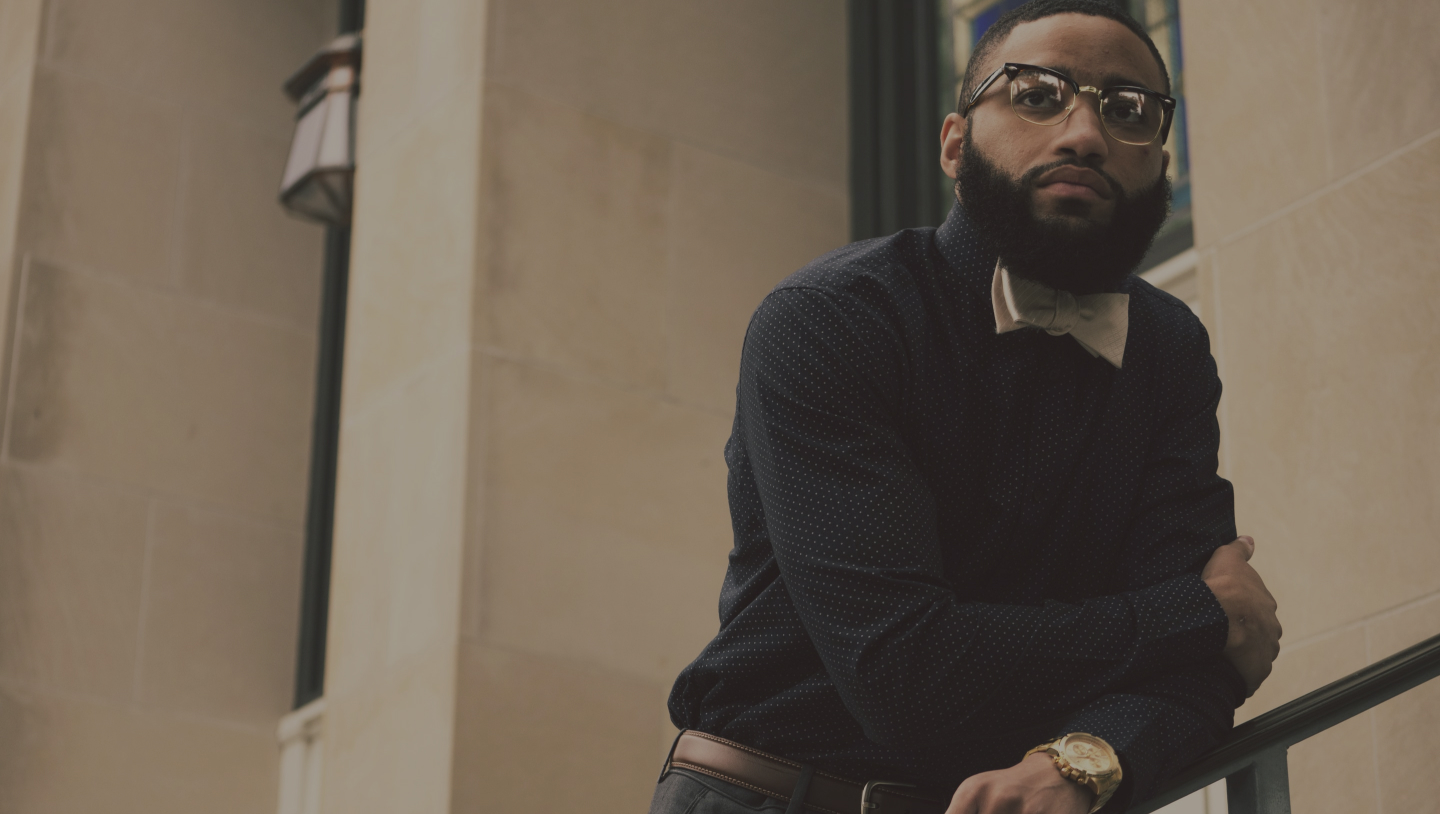
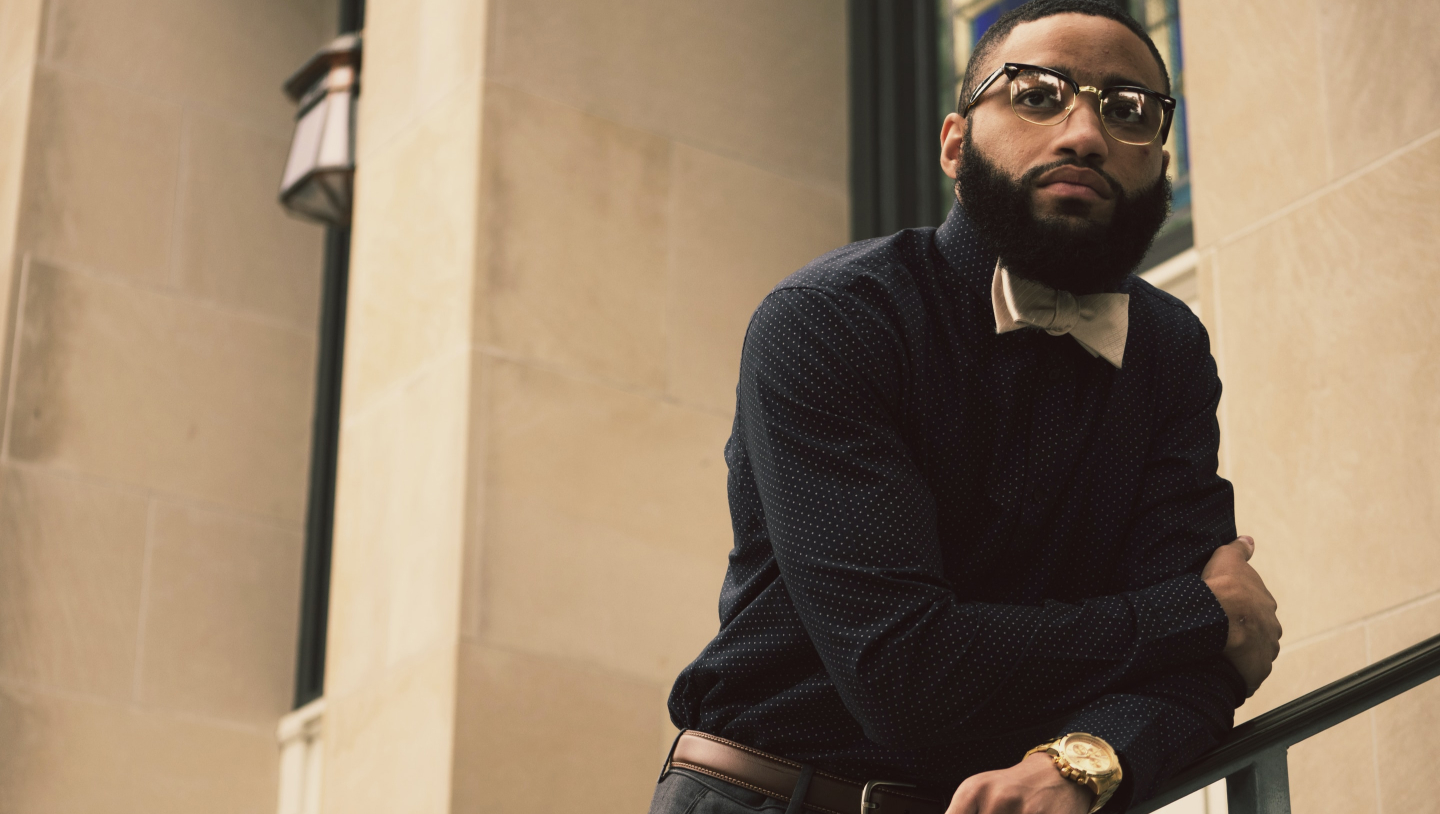
корректирую главную страницу

diff --git a/www/style/style.css b/www/style/style.css
@@ -73,18 +73,18 @@ a {
 .promo {
   text-align: center;
   background-image: url("../images/promo-fone.jpg");
-  background-color: rgba(51, 51, 51, 0.4);
   background-repeat: no-repeat;
   background-position: center;
   background-size: cover;
   background-position: top;
 }
 
-.promo {
-  padding: 100px;
+.promo-lead-fade {
+  background-color: rgba(51, 51, 51, 0.4);
 }
 
-.promo {
+.promo-inner {
+  padding: 214px 0;
   max-width: 1276px;
   margin: 0 auto;
   border: 1px solid red;
@@ -95,11 +95,8 @@ a {
   font-style: normal;
   font-weight: 600;
   font-size: 72px;
-  line-height: 98.05px;
   text-align: center;
   color: #FFF;
-  left: 82px;
-  top: 200px;
 }
 
 .services {
@@ -144,8 +141,10 @@ a {
   display: block;
 }
 
-.order {
-  background-color: #C4C4C4;
+.order-inner-fade {
+  padding: 130px 0;
+  color: #333333;
+  background-color: rgba(51, 51, 51, 0.1);
 }
 
 .order-inner {
@@ -155,12 +154,7 @@ a {
 }
 
 .order-title {
-  left: 32.05%;
-  right: 31.97%;
-  top: 0%;
-  bottom: -3.57%;
-  font-family: Open Sans;
-  font-style: normal;
+  font-family: "Open Sans", sans-serif;
   font-weight: normal;
   font-size: 64px;
   line-height: 87px;
@@ -168,11 +162,10 @@ a {
 }
 
 .order-text {
+  font-family: "Open Sans", sans-serif;
+  font-weight: normal;
   width: 1276px;
   height: 76px;
-  font-family: Open Sans;
-  font-style: normal;
-  font-weight: normal;
   font-size: 28px;
   line-height: 38px;
   text-align: center;
@@ -183,7 +176,7 @@ a {
   justify-content: space-between;
 }
 
-.form-field-half {
+.form-order-label {
   padding: 20px;
 }
 
@@ -278,7 +271,7 @@ a {
 .form-order-btn {
   background-color: #FF2D2D;
   display: inline-block;
-  padding: 35px 0;
+  padding: 35px;
   font-family: "Open Sans", sans-serif;
   font-weight: normal;
   font-size: 42px;
@@ -331,4 +324,4 @@ a {
   font-size: 1px;
   opacity: 0;
 }
[2 lines of base64/hex data omitted]

diff --git a/www/index.html b/www/index.html
@@ -38,14 +38,12 @@
 
   <main>
     <section class="promo">
-      <div class="promo-inner">
-        <div class="promo-info">
-
-          <p class="promo-text">Индивидуальный пошив галстуков-бабочек</p>
-          <a href="#" class="promo-btn">Заказать бабочку</a>
-
+      <div class="promo-lead-fade">
+        <div class="promo-inner">
+            <p class="promo-text">Индивидуальный пошив галстуков-бабочек</p>
+            <a href="#" class="promo-btn">Заказать бабочку</a>
         </div>
-      </div>
+     </div>
     </section>
 
     <section class="services">
@@ -76,29 +74,33 @@
 
     </section>
 
-    <section class="order">
-      <div class="order-inner">
-        <div class="order-wrap">
+    <section class="order" id="order">
+      <div class="order-inner-fade">
+        <div class="order-inner">
+
           <h2 class="order-title">Закажи пошив</h2>
           <p class="order-text">Заполните форму - наш мастер свяжется с вами, согласует удобное время для встречи. На
             встрече он снимет мерки и поможет обределиться с тканью.</p>
 
-          <form action="#" class="form">
-            <div class="form-field form-field-half">
-              <label for="name" class="form-label">Ваше имя</label>
+          <form action="#" class="form-order">
+            <div class="form-order-field">
+              <label for="name" class="form-order-label">Ваше имя</label>
               <input id="name" name="name" type="text" class="form-input">
             </div>
-            <div class="form-field form-field-half">
-              <label for="phone" class="form-label">Телефон</label>
+            <div class="form-order-field">
+              <label for="phone" class="form-order-label">Телефон</label>
               <input id="phone" name="phone" type="tel" class="form-input">
             </div>
 
             <a href="#" class="form-order-btn">Заказать</a>
           </form>
 
-        </div>
+
 
       </div>
+
+      </div>
+
     </section>
 
     <section class="footer">

diff --git a/src/styles/blocks/_order.scss b/src/styles/blocks/_order.scss
@@ -1,6 +1,7 @@
-.order {
-  background-color: #C4C4C4;
-
+.order-inner-fade {
+  padding: 130px 0;
+  color: $color-dark;
+  background-color:rgba(51, 51, 51, .1);
 
 }
 
@@ -10,12 +11,7 @@
 
 
 .order-title {
-  left: 32.05%;
-  right: 31.97%;
-  top: 0%;
-  bottom: -3.57%;
-  font-family: Open Sans;
-  font-style: normal;
+  font-family: $fonts;
   font-weight: normal;
   font-size: 64px;
   line-height: 87px;
@@ -23,11 +19,10 @@
 }
 
 .order-text {
+  font-family: $fonts;
+  font-weight: normal;
   width: 1276px;
   height: 76px;
-  font-family: Open Sans;
-  font-style: normal;
-  font-weight: normal;
   font-size: 28px;
   line-height: 38px;
   text-align: center;

diff --git a/src/styles/blocks/_promo.scss b/src/styles/blocks/_promo.scss
@@ -1,18 +1,21 @@
 .promo {
   text-align: center;
   background-image: url('../images/promo-fone.jpg');
-  background-color: rgba(51, 51, 51, 0.4);
   background-repeat: no-repeat;
   background-position: center;
   background-size: cover;
   background-position: top;
+
+
 }
 
-.promo {
-  padding: 100px;
+.promo-lead-fade {
+  background-color: rgba(51, 51, 51, 0.4);
 }
 
-.promo {
+
+.promo-inner {
+  padding: 214px 0;
   @include container;
 }
 
@@ -22,11 +25,9 @@
   font-style: normal;
   font-weight: 600;
   font-size: 72px;
-  line-height: 98.05px;
   text-align: center;
   color: $color-ligth;
-  left: 82px;
-  top: 200px;
+
 
 }
 

diff --git a/src/styles/style.scss b/src/styles/style.scss
@@ -11,7 +11,7 @@
 @import "blocks/_promo";
 @import "blocks/_services";
 @import "blocks/_order";
-@import "blocks/_form";
+@import "blocks/_form-order";
 @import "blocks/_footer";
 @import "blocks/_btn";
 @import "blocks/_social-icons";

diff --git a/src/styles/blocks/_btn.scss b/src/styles/blocks/_btn.scss
@@ -35,7 +35,7 @@
 .form-order-btn {
   background-color: $color-assent;
   display: inline-block;
-  padding: 35px 0;
+  padding: 35px;
   font-family: $fonts;
   font-weight: normal;
   font-size: 42px;

diff --git a/src/styles/blocks/_form-order.scss b/src/styles/blocks/_form-order.scss
@@ -4,7 +4,7 @@
 
 }
 
-.form-field-half {
+.form-order-label {
   padding: 20px;
 }
 
